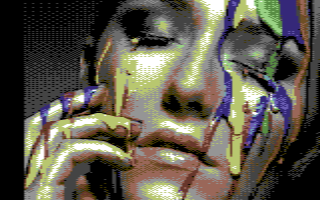
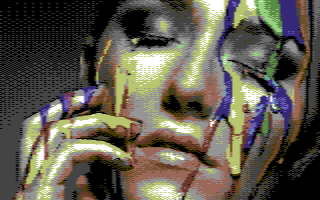
New development version. Fixed example picture.

diff --git a/index.js b/index.js
@@ -20,7 +20,7 @@ let graphicMode = GraphicModes.all.c64Multicolor;
 let ditherMode = 'bayer4x4';
 let ditherRadius = 32;
 
-cli.version('0.4.1')
+cli.version('0.4.2')
     .usage('[options] <infile> <outfile>')
     .option('-m, --mode <graphicMode>', 'c64Multicolor (default), c64Hires, c64HiresMono, c64FLI, c64AFLI')
     .option('-d, --ditherMode <ditherMode>', 'bayer2x2, bayer4x4 (default), bayer8x8')
